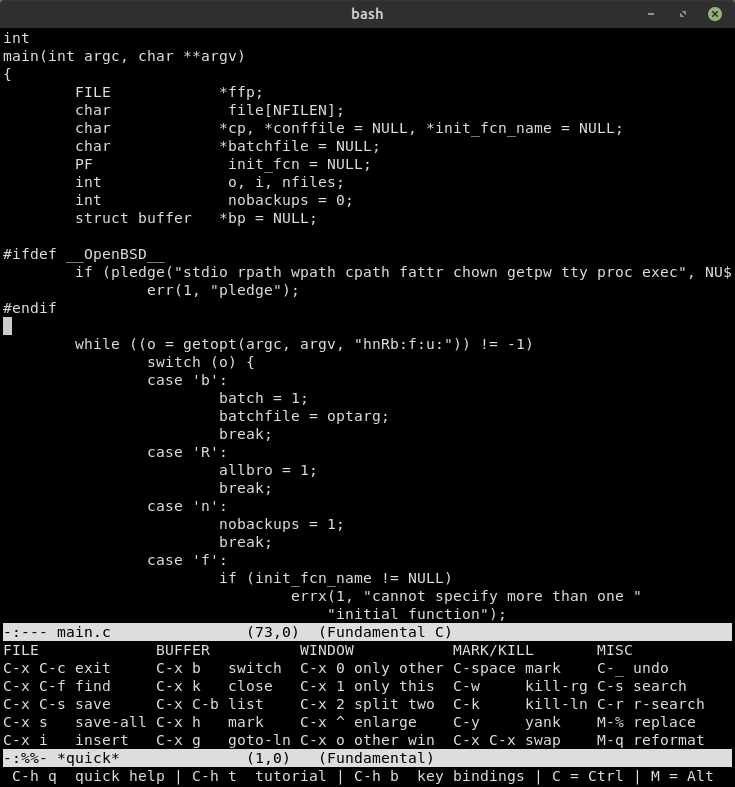
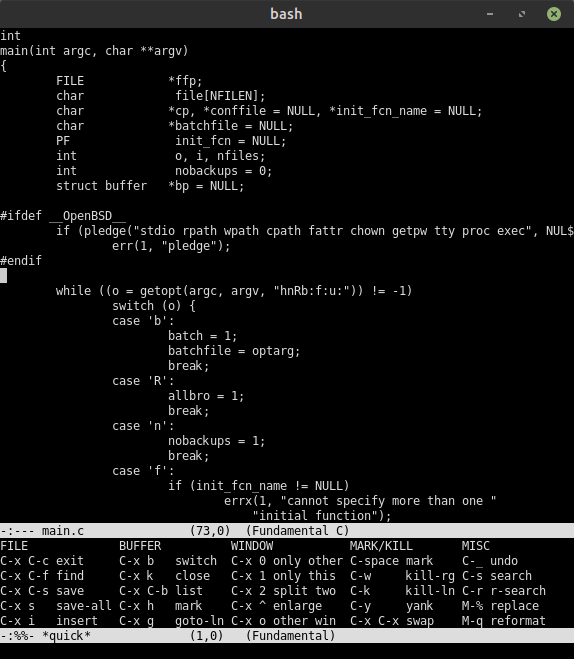
Reduce font size in screenshot so we don't need a thumbnail

diff --git a/README.md b/README.md
@@ -4,7 +4,7 @@ Micro (GNU) Emacs
 
 Contents
 --------
-<a href="doc/mg.png"><img align="right" src="doc/mg-thumb.png" title="mg in action"></a>
+<a href="doc/mg.png"><img align="right" src="doc/mg.png" title="mg in action"></a>
 
 * [Introduction](#introduction)
 * [Usage](#usage)
